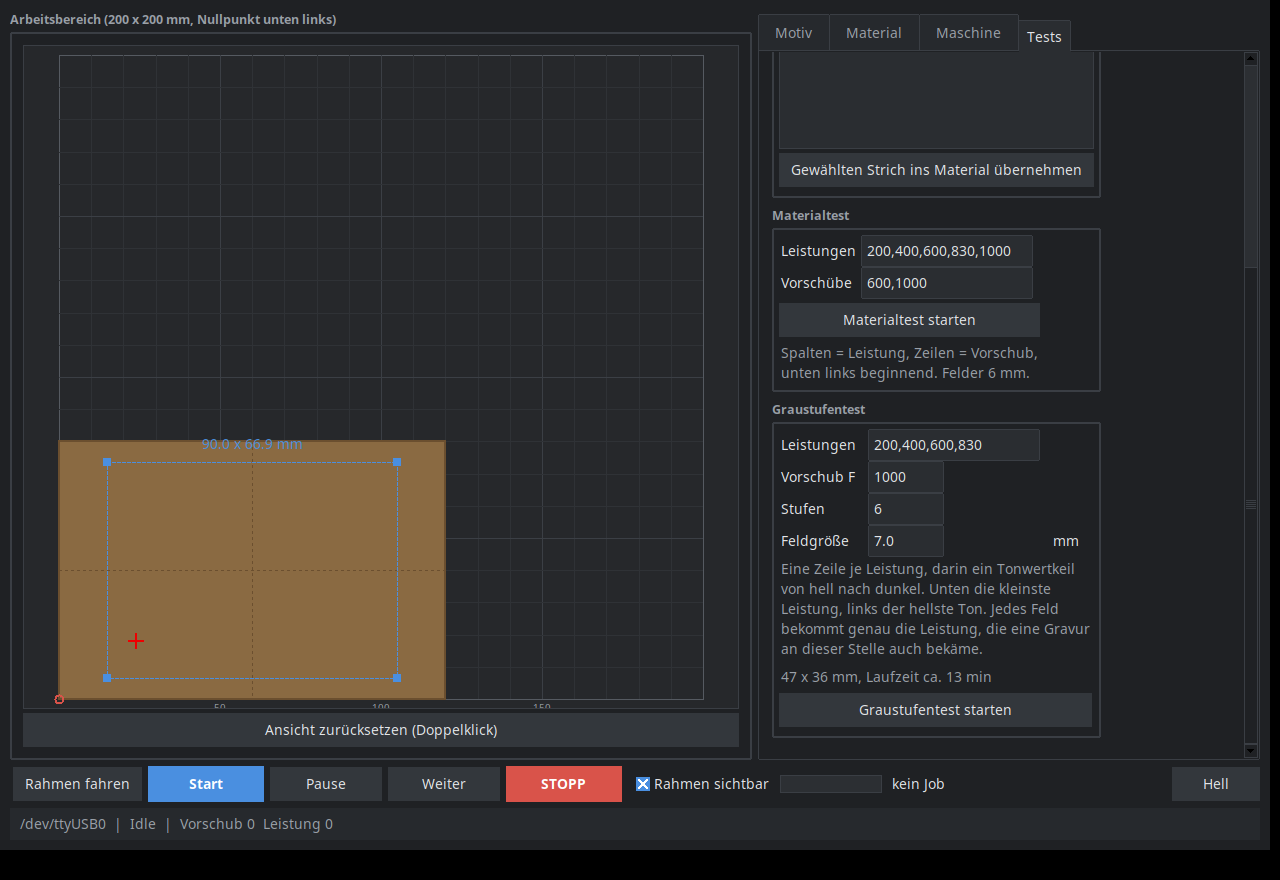
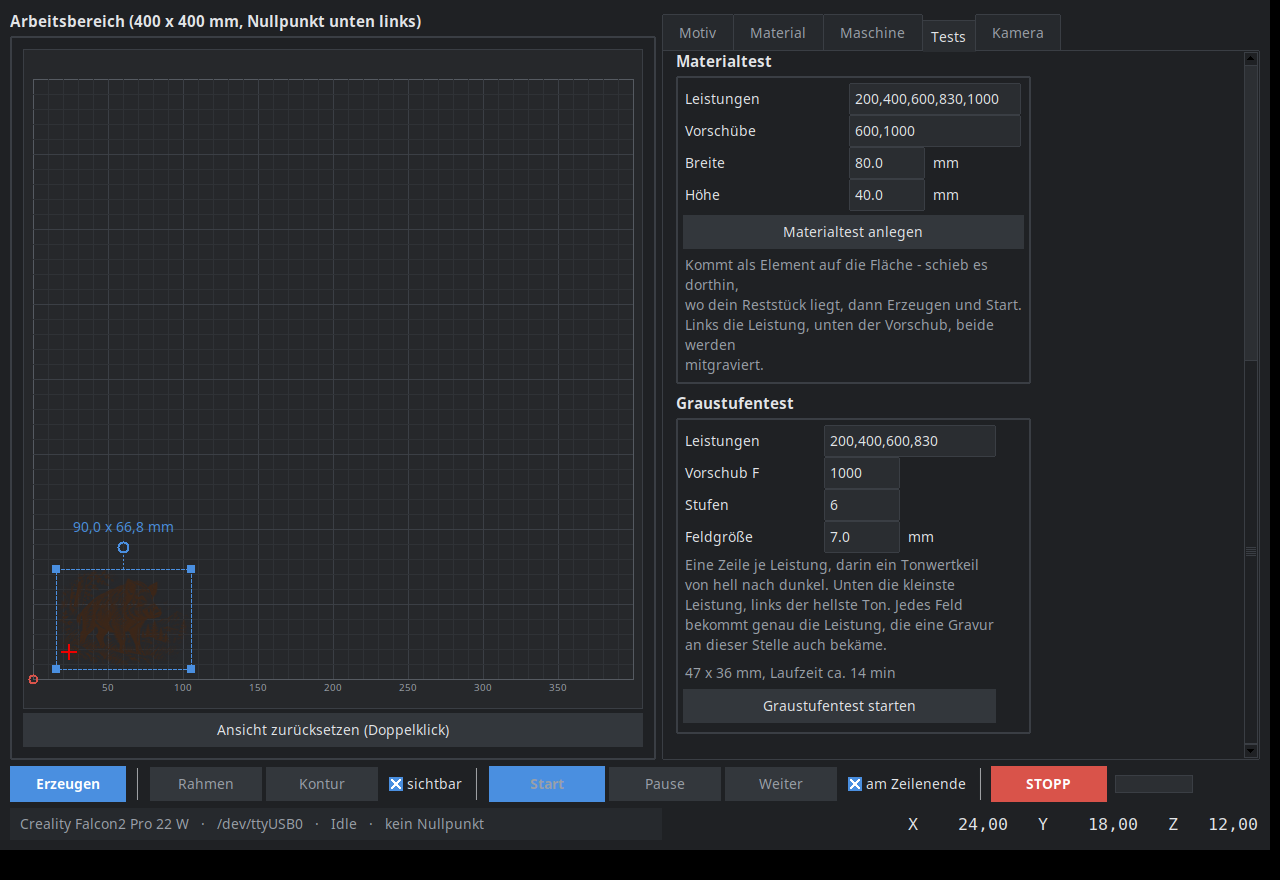
Neue Bilder, und ein Abschnitt ueber die Kamera
Die Bildschirmfotos zeigten einen Stand von Ende Oktober - ohne
Werkstueckerkennung, ohne Eichung, ohne Kamerareiter. Alle zwoelf neu
erzeugt, dazu zwei neue vom Kamerareiter: erkannte Werkstuecke mit dem
Motiv darauf, kein gestelltes Bild, sondern was die Erkennung wirklich
liefert.

Dass es dafuer einen Abschnitt in den Readmes brauchte, ist der
eigentliche Befund: die ganze Eichung und die Erkennung standen dort
bisher nicht. Jetzt steht da, was die Kamera leistet und woher die Zahl
kommt - nicht an einem Ausdruck geeicht, sondern an der Maschine selbst.

Das Bildskript war dabei zweimal kaputt, beides aelter als diese
Aenderung. Es fing filedialog.askopenfilename ab, open_image fragt seit
dem Laden mehrerer Dateien aber ueber askopenfilenames - also stand ein
echter zenity-Dialog auf einem unsichtbaren Schirm und wartete auf einen
Menschen, der ihn nie sieht. Danach hing es an der Warnung ueber den
Verfahrweg, weil die Attrappe 200 x 200 meldet und die Konfiguration
etwas anderes sagt. Jetzt sind alle Dialoge im Skript stillgelegt, und
die Attrappe meldet den eingestellten Verfahrweg.

Die Erklaertexte blendet das Skript fuers Kamerabild direkt aus statt
ueber _hilfe_zeigen - das wuerde die Einstellung des Benutzers umstellen
und speichern. Ein Bildskript hat an fremden Einstellungen nichts zu
suchen.

931 Tests.

diff --git a/bilder/mach_bilder.py b/bilder/mach_bilder.py
@@ -3,10 +3,15 @@
 Bildschirmfotos fuers README erzeugen - auf einem unsichtbaren Bildschirm,
 damit beim Aufnehmen kein Fenster vor der Arbeit aufspringt.
 
-    xvfb-run -s "-screen 0 1280x880x24" python3 bilder/mach_bilder.py BILD.png [en]
+    xvfb-run -s "-screen 0 1280x880x24" python3 bilder/mach_bilder.py BILD.png [en] [KAMERA.png]
 
 Das Motiv ist ein beliebiges Bild oder SVG; die Bilder im README zeigen eine
 Tuschezeichnung, die nicht mit im Projekt liegt.
+
+Das dritte Argument ist eine rohe Kameraaufnahme des Bettes in der Groesse,
+in der geeicht wurde. Fehlt sie, entfaellt das Bild vom Kamerareiter - ohne
+Aufnahme gibt es dort nichts zu zeigen, und ein leerer Reiter waere ein
+schlechteres Bild als gar keines.
 
 Die Maschine wird dabei nur vorgetaeuscht (keine serielle Verbindung, kein
 Befehl geht raus). Was man sieht, ist echte Oberflaeche mit echtem G-Code.
@@ -25,6 +30,16 @@ import laserwerk as L
 # Kein Telegram beim Bildermachen: sonst fragt der Bot gegen ein laufendes
 # Laserwerk und beide bekommen 409 von Telegram.
 L.TG.Fern.start = lambda self: "aus"
+
+# Kein Dialog beim Bildermachen. Auf einem unsichtbaren Schirm wartet ein
+# zenity-Fenster bis in alle Ewigkeit auf einen Menschen, der es nie sieht -
+# das Skript sieht dann aus, als haenge es, und tut es auch.
+L.messagebox.showinfo = lambda *a, **k: None
+L.messagebox.showwarning = lambda *a, **k: None
+L.messagebox.showerror = lambda *a, **k: None
+L.messagebox.askokcancel = lambda *a, **k: True
+L.messagebox.askyesno = lambda *a, **k: True
+L.messagebox.askyesnocancel = lambda *a, **k: False
 
 
 
@@ -78,6 +93,7 @@ def schiess(fenster, name):
 def main():
     quelle = sys.argv[1] if len(sys.argv) > 1 else None
     sprache = sys.argv[2] if len(sys.argv) > 2 else "de"
+    kamera = sys.argv[3] if len(sys.argv) > 3 else None
     lw_text.setze(sprache)
     vorsatz = "" if sprache == "de" else sprache + "-"
     root = tk.Tk()
@@ -86,11 +102,22 @@ def main():
     root.title("Laserwerk")
     app = L.App(root)
     app.grbl = Attrappe()
+    # Die Attrappe meldet denselben Verfahrweg, der eingestellt ist -
+    # sonst warnt der Maschinenreiter zu Recht, und auf dem Bild steht
+    # eine Warnung statt der Maschine.
+    app.grbl.settings["130"] = float(app.cfg["x_max"])
+    app.grbl.settings["131"] = float(app.cfg["y_max"])
     app.btn_conn.configure(text="Trennen")      # die Attrappe gilt als verbunden
     root.update()
 
     if quelle and os.path.exists(quelle):
+        # Seit dem Laden mehrerer Dateien fragt open_image ueber
+        # askopenfilenames. Wer nur den alten Namen abfaengt, bekommt
+        # einen echten zenity-Dialog auf einem unsichtbaren Schirm - und
+        # das Skript wartet bis in alle Ewigkeit auf einen Menschen, der
+        # ihn nie sieht. Beide Namen stillegen.
         L.filedialog.askopenfilename = lambda **k: quelle
+        L.filedialog.askopenfilenames = lambda **k: (quelle,)
         app.open_image()
 
     # Werkstueck und Motiv so stellen, wie man es wirklich benutzt
@@ -128,7 +155,58 @@ def main():
     runter(app.tab_test)                # die Spalte ist laenger als das Fenster
     root.update()
     schiess(root, vorsatz + "05-tests.png")
+    hoch(app.tab_test)
+
+    if kamera and os.path.exists(kamera):
+        kamerabild(app, root, kamera, vorsatz)
     root.destroy()
+
+
+def kamerabild(app, root, pfad, vorsatz):
+    """Den Kamerareiter zeigen: erkannte Werkstuecke mit Motiv darauf.
+
+    Gezeigt wird, was die Erkennung wirklich liefert - kein gestelltes
+    Bild. Die Eichung kommt aus dem Maschinenprofil dieses Rechners;
+    ohne eine passende bleibt der Reiter leer, und dann wird auch kein
+    Bild gemacht.
+    """
+    from PIL import Image
+    if not app._kam_eichung().get("homographie"):
+        print("  keine Eichung - kein Kamerabild")
+        return
+    app.cfg["x_max"] = app.cfg["y_max"] = 400.0
+    app.v_bw.set(400.0)
+    app.v_bh.set(400.0)
+    app.v_board.set(False)
+    app._kamera_uebernehmen(Image.open(pfad))
+    app.v_stueck_min.set(40.0)
+    app.stuecke_erkennen()
+    runde = [i for i, s in enumerate(app.stuecke) if s["form"] == "rund"]
+    for i in [k for k in range(len(app.stuecke)) if k not in runde][::-1]:
+        app.stueck_aktiv = i            # alles wegraeumen, was kein Stueck ist
+        app.stueck_entfernen()
+    if app.stuecke:
+        app.stueck_aktiv = 0
+        app._stueck_stand()
+        if app._box() is not None:
+            app.v_w.set(72.0)
+            app._keep_ratio("w")
+            app.motiv_auf_stueck()
+    # Ohne Erklaertexte passt der Reiter ins Bild. Nicht ueber
+    # _hilfe_zeigen: das wuerde die Einstellung des Benutzers umstellen
+    # und speichern, und ein Bildskript hat an fremden Einstellungen
+    # nichts zu suchen.
+    for w in app.hilfetexte:
+        try:
+            w.grid_remove()
+        except Exception:
+            pass
+    app.nb.select(4)                    # Kamera
+    root.update()
+    runter(app.tab_kam)                 # die Werkstuecke stehen unten
+    root.update()
+    app._draw()
+    schiess(root, vorsatz + "06-kamera.png")
 
 
 if __name__ == "__main__":

diff --git a/README.de.md b/README.de.md
@@ -222,6 +222,27 @@ Materialwerte als Preset, Achsensteuerung und die Tests:
 
 ![Tests](bilder/05-tests.png)
 
+## Die Kamera weiß, wo das Werkstück liegt
+
+Im Deckel sitzt eine Kamera. Laserwerk eicht sie nicht an einem Ausdruck,
+sondern an der Maschine selbst: sie brennt ein Raster aus fünfundzwanzig
+Kreuzen, von dem sie auf Hundertstel weiß, wo es liegt, sucht sie im Bild
+wieder und rechnet daraus Objektivverzeichnung, Lage und Maßstab. Auf einem
+Falcon2 Pro bleiben davon 0,45 mm im Mittel über das ganze Bett.
+
+Danach liegt das Bild in Maschinenkoordinaten unter der Zeichenfläche: was
+darauf an einer Stelle liegt, liegt dort auch wirklich. Ein Knopf findet die
+Werkstücke darin — Umriss, Mitte, Breite und Höhe in Millimetern, Drehwinkel,
+Form. Das Motiv rastet beim Ziehen auf der Mitte ein, und *auf alle
+Werkstücke* legt für jedes eine eigene Kopie an.
+
+![Werkstücke erkennen](bilder/06-kamera.png)
+
+Die Umrisse sind eine Anzeige und kein Motiv: sie stehen nicht in der
+Elementliste und geraten in keinen Auftrag. Was unsicher erkannt wurde, sagt
+es selbst, statt eine Zahl auszugeben, die nur so aussieht wie eine Antwort —
+und wem die Erkennung nicht passt, der zieht den Umriss selbst auf.
+
 Während eines Laufs steht in der Statuszeile, bei welcher Zeile von wie
 vielen der Kopf gerade ist — wie der Schichtzähler am 3D-Drucker. Beim
 Schneiden zählt es Konturen statt Zeilen.
@@ -407,7 +428,7 @@ weitere Sprache die Tabelle kopieren und `SPRACHEN` ergänzen.
 python3 -m unittest discover -s tests -t tests
 ```
 
-913 Tests mit Bordmitteln, ohne Installation. Die Oberflächentests brauchen
+931 Tests mit Bordmitteln, ohne Installation. Die Oberflächentests brauchen
 eine Anzeige und werden ohne eine solche übersprungen; `xvfb-run -a` davor
 lässt sie auf einem unsichtbaren Bildschirm laufen. Einzelheiten in
 [tests/README.md](tests/README.md).

diff --git a/README.md b/README.md
@@ -212,6 +212,27 @@ Material values as a preset, jogging, and the tests:
 
 ![Tests](bilder/en-05-tests.png)
 
+## The camera knows where the workpiece lies
+
+There is a camera in the lid. Laserwerk does not calibrate it against a
+printout but against the machine itself: it burns a grid of twenty-five
+crosses whose position it knows to a hundredth of a millimetre, finds them
+again in the picture, and works out lens distortion, position and scale from
+that. On a Falcon2 Pro 0.45 mm mean error over the whole bed is left.
+
+After that the picture lies in machine coordinates under the drawing area:
+whatever sits somewhere on it really sits there. A button finds the
+workpieces in it — outline, centre, width and height in millimetres, angle,
+shape. While dragging, the motif snaps onto the centre, and *on every
+workpiece* makes a separate copy for each one.
+
+![Finding the workpieces](bilder/en-06-kamera.png)
+
+The outlines are a display, not a motif: they are not in the element list and
+never end up in a job. Anything recognised with doubt says so instead of
+handing out a number that merely looks like an answer - and if you do not
+like what it found, you draw the outline yourself.
+
 While a job runs, the status line says which row out of how many the head
 is on — like a 3D printer's layer counter. For cutting it counts contours
 instead of rows.
@@ -390,7 +411,7 @@ language, copy the table and extend `SPRACHEN`.
 python3 -m unittest discover -s tests -t tests
 ```
 
-913 tests on stdlib only, nothing to install. The interface tests need a
+931 tests on stdlib only, nothing to install. The interface tests need a
 display and are skipped without one; prefix `xvfb-run -a` to run them on a
 hidden screen. Details in [tests/README.md](tests/README.md).
 
